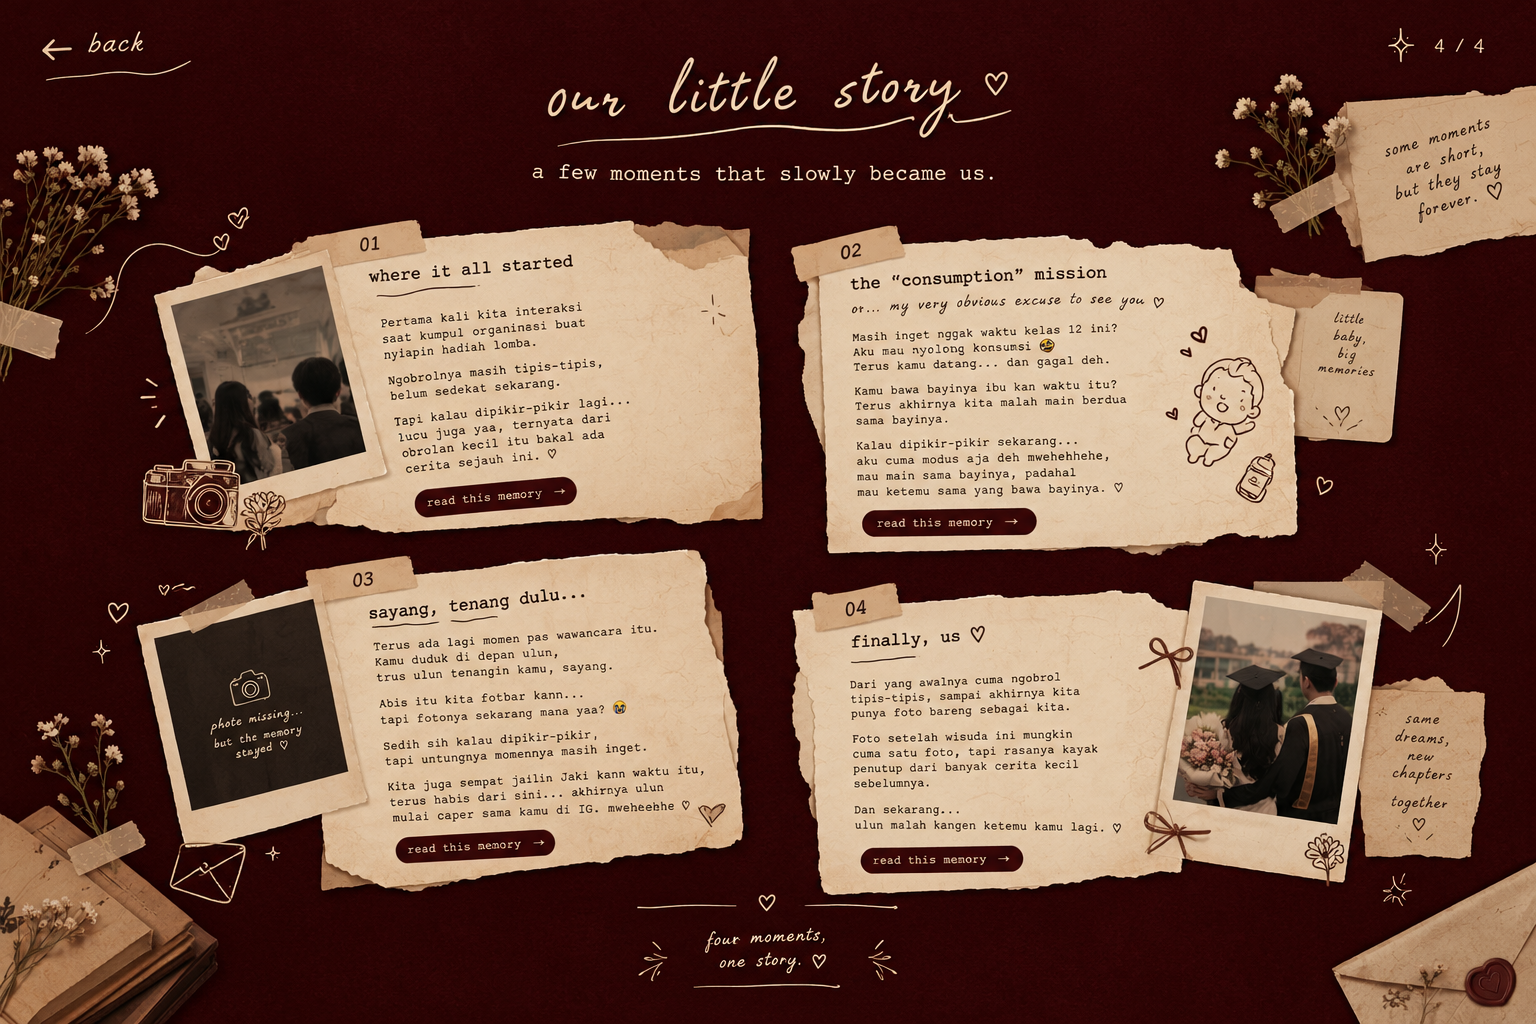
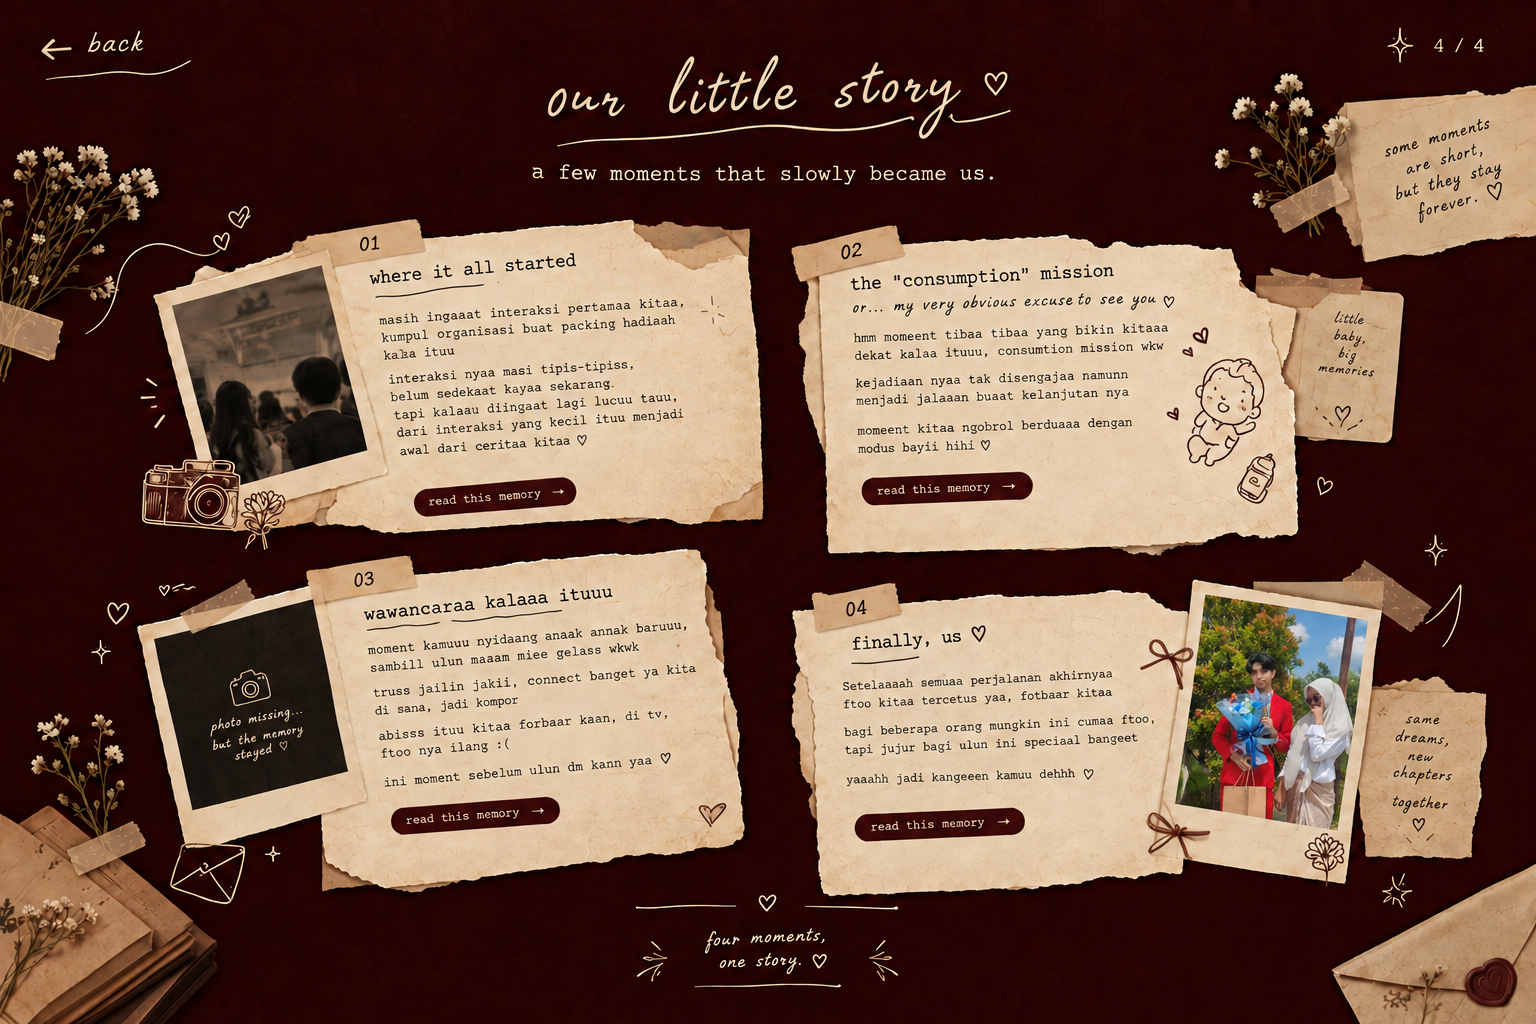
upload

diff --git a/Cake.html b/Cake.html
@@ -28,26 +28,19 @@
 
         <div class="wish-grid">
 
-            <!-- WISH 1 -->
+            
             <div class="wish-card wish-pos-1" id="wishCard0">
-                <img class="wish-paper" src="Img/wish1.png" alt="Wish 1">
-                <p class="wish-text-overlay">
-                    <!-- Ganti isi wish di sini -->
-                    I hope this year brings you more reasons to smile.<br><br>
-                    May your days be filled with little joys, big happiness, and people who love you as much as you deserve. ♡
-                </p>
+                <img class="wish-paper" src="img/Wishes1.png" alt="Wish 1">
+                
             </div>
 
-            <!-- WISH 2 -->
+           
             <div class="wish-card wish-pos-2" id="wishCard1">
-                <img class="wish-paper" src="Img/wish2.png" alt="Wish 2">
-                <p class="wish-text-overlay">
-                    I hope you get to experience more moments you'll want to remember.<br><br>
-                    New stories, new adventures, new achievements — all the good things, always. ♡
-                </p>
+                <img class="wish-paper" src="Img/Wishes2.png" alt="Wish 2">
+                
             </div>
 
-            <!-- KUE + LILIN -->
+         
             <div class="cake-center">
                 <div class="cake-wrap" id="cakeWrap">
 
@@ -73,28 +66,22 @@
                 <button class="make-wish-btn hidden" id="makeWishBtn">✧ make a wish ♡ ✧</button>
             </div>
 
-            <!-- WISH 3 -->
+        
             <div class="wish-card wish-pos-3" id="wishCard2">
-                <img class="wish-paper" src="Img/wish3.png" alt="Wish 3">
-                <p class="wish-text-overlay">
-                    I hope you find the courage to chase everything you want.<br><br>
-                    May you always be confident, strong, and never doubt how amazing you are. ♡
-                </p>
+                <img class="wish-paper" src="Img/Wishes3.png" alt="Wish 3">
+                
             </div>
 
-            <!-- WISH 4 -->
+         
             <div class="wish-card wish-pos-4" id="wishCard3">
-                <img class="wish-paper" src="Img/wish4.png" alt="Wish 4">
-                <p class="wish-text-overlay">
-                    And most of all, I hope you always feel loved.<br><br>
-                    Because you deserve all the love, kindness, and happiness in this world. ♡
-                </p>
+                <img class="wish-paper" src="Img/Wishes4.png" alt="Wish 4">
+                
             </div>
 
         </div>
     </div>
 
-    <!-- OVERLAY PENUTUP: make a wish sequence -->
+    
     <div class="final-overlay hidden" id="finalOverlay">
         <svg class="deco-sparkle sp1" viewBox="0 0 24 24"><path d="M12 0 L13.5 10.5 L24 12 L13.5 13.5 L12 24 L10.5 13.5 L0 12 L10.5 10.5 Z" fill="#f3dfbd"/></svg>
         <svg class="deco-sparkle sp2" viewBox="0 0 24 24"><path d="M12 0 L13.5 10.5 L24 12 L13.5 13.5 L12 24 L10.5 13.5 L0 12 L10.5 10.5 Z" fill="#f3dfbd"/></svg>

diff --git a/Cake.js b/Cake.js
@@ -1,9 +1,7 @@
-// tandai sudah dikunjungi (dipakai hub buat cek unlock bonus page)
 localStorage.setItem("visited_cake", "true");
 
-// ================= STATE =================
 const totalCandles = 4;
-let candleStatus = [false, false, false, false]; // FALSE = wish belum dibuka
+let candleStatus = [false, false, false, false]; 
 
 const candles = document.querySelectorAll(".candle-marker");
 const wishCards = document.querySelectorAll(".wish-card");
@@ -32,34 +30,34 @@ candles.forEach(candle => {
     candle.addEventListener("click", () => {
         const index = parseInt(candle.dataset.index, 10);
 
-        // sistem cek dulu apakah lilin ini sudah pernah diklik
+       
         if (candleStatus[index] === true) {
             showToast();
             return;
         }
 
-        // status diubah jadi aktif (TRUE)
+       
         candleStatus[index] = true;
         candle.classList.add("found");
 
-        // tampilkan wish card yang sesuai
+        
         wishCards[index].classList.add("revealed");
 
         checkAllFound();
     });
 });
 
-// ================= MAKE A WISH SEQUENCE =================
+
 const finalOverlay = document.getElementById("finalOverlay");
 const finalText = document.getElementById("finalText");
 const backFinalBtn = document.getElementById("backFinalBtn");
 
 makeWishBtn.addEventListener("click", () => {
-    // tiup lilin: marker yang tersisa ikut memudar, foto kue meredup pelan (simulasi lilin padam)
+    
     candles.forEach(candle => candle.classList.add("blowing"));
     cakePhoto.classList.add("dimmed");
 
-    // setelah "lilin padam", tampilkan overlay
+    
     setTimeout(() => {
         finalOverlay.classList.remove("hidden");
         finalText.textContent = "make a wish, sayang... ♡";

diff --git a/Memories.js b/Memories.js
@@ -1,8 +1,7 @@
-// tandai sudah dikunjungi (dipakai hub buat cek unlock bonus page)
+
 localStorage.setItem("visited_memories", "true");
 
-// ================= DATA MEMORY =================
-// Teks di bawah ini ditranskrip dari fotomu — silakan koreksi kalau ada yang meleset
+
 
 const judulMemory = [
     "where it all started",
@@ -12,11 +11,14 @@ const judulMemory = [
 ];
 
 const isiMemory = [
-`Pertama kali kita interaksi saat kumpul organisasi buat nyiapin hadiah lomba.
+`Sayaaaaaangg masi ingaaat pertemuaaan pertama kitaa kalaa ituuu? hmm mungkin bukan pertemuan pertama sii lebih ke arah interaksi pertama kitaa hihi
 
-Ngobrolnya masih tipis-tipis, belum sedekat sekarang.
+inii tuu lucuu tauu buaat di ingaat, moment nyaa terjadi tanpaa rencana sebetul nyaa, kebetulaan bangeet, kitaa lagi ngumpul buaat nge packing hadiaah kann
+nahh di sanaa kitaa adaa ngobroll tipiss tipiss, ingaat kadaa pas ulun duduk truss minggirin hadiaah yang di atas mejaa, modus banget ya hihi, truss kalau sayaaang ingaat jugaa 
+disana kamuu ada nnaya packingaan nya baguss ngaa, truss di bulli mudii, baruu kamu nanyaa ke ulunn, truss ulun jawaab dehh baguss kokk, rapii wii good job
+truss syaaang jawaaab tuukan emang cuma ka rasyid yang baikk, jujuur di sana adaa bangeet malu sama tersanjung nyaa, gimanaa tidaa ratu nya bidadari bersabdaa sayaaang hihi
 
-Tapi kalau dipikir-pikir lagi... lucu juga yaa, ternyata dari obrolan kecil itu bakal ada cerita sejauh ini. ♡`,
+lucu yaa kalaau di ingaat, ternyata dari obrolan kecil itu bakal ada cerita sejauh ini. ♡`,
 
 `or... my very obvious excuse to see you ♡
 

diff --git a/Memories.html b/Memories.html
@@ -9,18 +9,18 @@
 <body>
 
     <section class="scene-home">
-        <img class="scene-bg" src="Img/memories-home.png" alt="our little story">
+        <img class="scene-bg" src="img/memories-home.png" alt="our little story">
 
-        <!-- area klik "← back" bawaan foto, balik ke Hub -->
+        
         <a class="hotspot back-hotspot" href="Page1.html" aria-label="back to hub"></a>
 
-        <!-- area klik 4 tombol "read this memory" bawaan foto -->
+        
         <button class="hotspot memory-hotspot" data-index="0" style="left:23%; top:48.5%; width:18%; height:4%;" aria-label="read memory 1"></button>
         <button class="hotspot memory-hotspot" data-index="1" style="left:52.5%; top:51.5%; width:17%; height:4.5%;" aria-label="read memory 2"></button>
         <button class="hotspot memory-hotspot" data-index="2" style="left:22%; top:81%; width:19.5%; height:5%;" aria-label="read memory 3"></button>
         <button class="hotspot memory-hotspot" data-index="3" style="left:52.5%; top:84.5%; width:16.5%; height:4.5%;" aria-label="read memory 4"></button>
 
-        <!-- ============ MODAL: cerita lengkap ============ -->
+       
         <div class="memory-modal-overlay hidden" id="memoryModalOverlay">
             <div class="memory-modal">
                 <button class="modal-close" id="modalClose" aria-label="close">×</button>

diff --git a/Memories.css b/Memories.css
@@ -27,7 +27,7 @@ body {
     display: block;
 }
 
-/* ============ HOTSPOT (area klik transparan) ============ */
+
 
 .hotspot {
     position: absolute;
